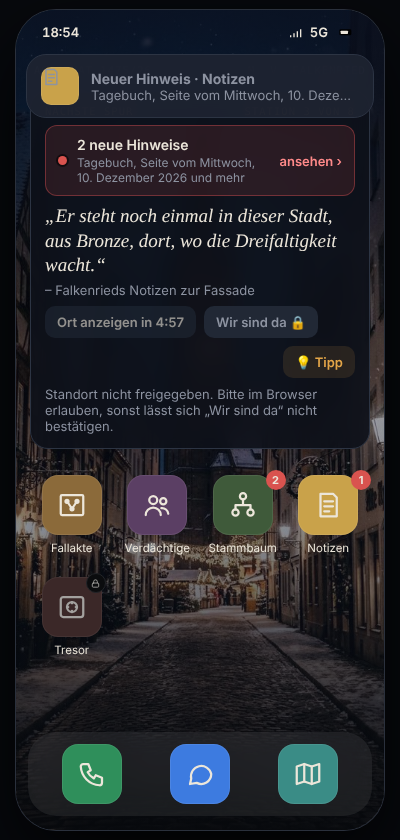
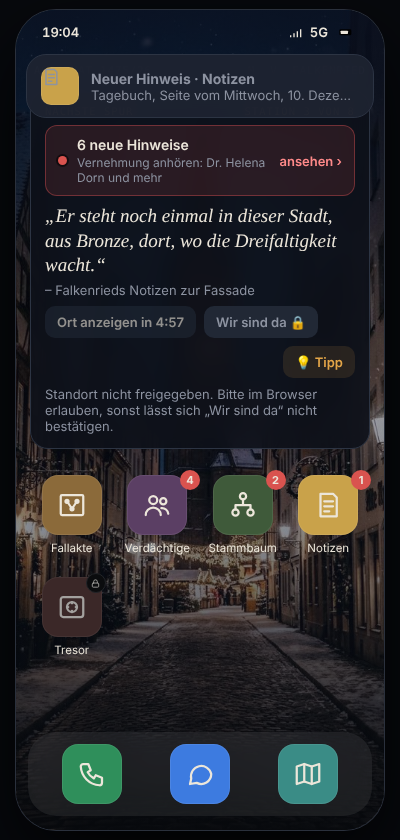
Start: die vier Vernehmungen müssen einmal komplett angehört werden (teamweit), mit Fortschritt und Sperre bis dahin
Claude-Session: https://claude.ai/code/session_01WNJHfocEY1Zejxyfbb2F8F

Changed region(s): [[0.18, 0.1548, 0.66, 0.2167], [0.45, 0.5571, 0.51, 0.5881], [0.12, 0.031, 0.18, 0.0619]]

diff --git a/src/index.html b/src/index.html
@@ -523,9 +523,9 @@ const CONTENT = {
 const TEAM = ((new URLSearchParams(location.search).get("team") || "haupt").toLowerCase().replace(/[^a-z0-9-]/g, "").slice(0, 30)) || "haupt";
 const KEY = "falkenried-v2-" + TEAM;
 /* Gemeinsam für alle Handys des Teams */
-const SHARED = ["stage","phase","revealed","apps","evidence","voicemails","notes","st","ending","struck","hintsOpen","events","locks","devices","solvedBy","rev","resetAt","goAt","acks","mustSee","startedAt"];
+const SHARED = ["stage","phase","revealed","apps","evidence","voicemails","notes","st","ending","struck","hintsOpen","events","locks","devices","solvedBy","rev","resetAt","goAt","acks","mustSee","startedAt","heard"];
 const fresh = () => ({ stage:1, phase:"task", revealed:{}, apps:[], evidence:[], voicemails:[], notes:[], st:{}, ending:null, struck:[], hintsOpen:{},
-  events:[], locks:{}, devices:{}, solvedBy:null, rev:0, resetAt:0, goAt:{}, acks:{}, mustSee:[],
+  events:[], locks:{}, devices:{}, solvedBy:null, rev:0, resetAt:0, goAt:{}, acks:{}, mustSee:[], heard:{},
   /* nur auf diesem Handy */
   introSeen:false, unlocked:false, calls:[], threads:{ unbekannt:[] }, fired:[], unread:0, missed:0, seen:[] });
 /* Dieses Gerät */
@@ -644,7 +644,7 @@ function renderDots(){ const d = $("#dots"); if (d) d.innerHTML = [0,1,2,3].map(
 function checkPin(){
   if (pin === CONTENT.pin) {
     S.unlocked = true; if (!S.startedAt) S.startedAt = Date.now(); save(); pin = ""; renderHome();
-    askName(() => showCast(() => setTimeout(() => { fire("CALL_01"); processEvents(); }, 1200)));
+    askName(() => showCast(() => showInterrogations(() => setTimeout(() => { fire("CALL_01"); processEvents(); }, 1200))));
   } else {
     const d = $("#dots"); d.classList.remove("shake"); void d.offsetWidth; d.classList.add("shake");
     $("#pinhint").textContent = "Falscher Code. Schaut noch einmal in den Umschlag.";
@@ -810,9 +810,9 @@ function alibiCheck(){
 }
 /* Alibis melden jetzt die allgemeinen Hinweise (newsCheck) */
 function personCard(p, cls, attr){
-  const nw = CONTENT.suspects.includes(p) && (isNew("verdaechtige", p.id) || (alibiOf(p.id) && isNew("verdaechtige", "alibi:" + p.id)));
+  const nw = CONTENT.suspects.includes(p) && (isNew("verdaechtige", p.id) || (alibiOf(p.id) && isNew("verdaechtige", "alibi:" + p.id)) || (REC_MUST.includes(p.id) && !(S.heard || {})[p.id]));
   return `<button class="card ${cls||""}${nw ? " isnew" : ""}" ${attr||""}>
-    <span class="av">${p.photo ? `<img src="${p.photo.replace(".jpg","_av.jpg")}" alt="">` : esc(p.name[0])}</span><span class="n">${esc(p.name)}, ${p.age}${CONTENT.suspects.includes(p) && (isNew("verdaechtige", p.id) || (alibiOf(p.id) && isNew("verdaechtige", "alibi:" + p.id))) ? '<b class="neuR">NEU</b>' : ""}</span>
+    <span class="av">${p.photo ? `<img src="${p.photo.replace(".jpg","_av.jpg")}" alt="">` : esc(p.name[0])}</span><span class="n">${esc(p.name)}, ${p.age}${CONTENT.suspects.includes(p) && nw ? '<b class="neuR">NEU</b>' : ""}</span>
     <span class="r">${esc(p.role)}</span><span class="q">${esc(p.note)}${p.says?`<br><i>${esc(p.says)}</i>`:""}${alibiOf(p.id) ? `<br><span style="color:#6fbf8a">✓ Alibi: ${esc(alibiOf(p.id))}${(cls||"").includes("struck") ? "" : " Tippen zum Streichen."}</span>` : ""}</span></button>`;
 }
 function openSuspects(){
@@ -844,12 +844,12 @@ function showSuspect(p){
   document.querySelectorAll(`#winBody [data-sus="${p.id}"] .neuR`).forEach(x => x.remove()); document.querySelectorAll(`#winBody [data-sus="${p.id}"]`).forEach(x => x.classList.remove("isnew"));
   sheet(`${p.photo ? `<img class="portrait" src="${p.photo}" alt="${esc(p.name)}">` : ""}<div class="kind">${esc(p.role)}</div>
     <h2>${esc(p.name)}, ${p.age}</h2><p>${esc(p.note)}</p>
-    ${RECORDINGS[p.id] ? `<button class="btn primary" id="recPlay">▶ Vernehmung anhören</button>
+    ${RECORDINGS[p.id] ? `${REC_MUST.includes(p.id) ? `<p id="recState" style="margin:0 0 6px;font-size:13px">${(S.heard || {})[p.id] ? '<span style="color:#6fbf8a">✓ Vernehmung angehört</span>' : '<span style="color:#ff8a8a">Bitte einmal komplett anhören.</span>'}</p>` : ""}<button class="btn primary" id="recPlay">▶ Vernehmung anhören</button>
       <details style="margin:8px 0 4px"><summary style="cursor:pointer;color:var(--muted);font-size:13px">Mitschrift der Vernehmung</summary><div class="transcript" style="margin-top:8px">${esc(RECORDINGS[p.id].text)}</div></details>` : `<p><i>${esc(p.says)}</i></p>`}
     ${alibiOf(p.id) ? `<div class="hint" style="border-color:#6fbf8a"><p style="margin:0;color:#6fbf8a"><b>✓ Alibi um 20:48:</b> ${esc(alibiOf(p.id))}</p></div>` : ""}
     <button class="btn ${struck?"":"primary"}" id="strike">${struck?"Wieder als verdächtig führen":"Streichen: hat ein sicheres Alibi"}</button>
     <button class="btn" data-close>Schließen</button>`);
-  const rp = $("#recPlay"); if (rp) rp.onclick = () => toggleRec(p.id, rp);
+  const rp = $("#recPlay"); if (rp) rp.onclick = () => { window.onHeard = who => { const st = $("#recState"); if (st && who === p.id) st.innerHTML = '<span style="color:#6fbf8a">✓ Vernehmung angehört</span>'; document.querySelectorAll(`#winBody [data-sus="${p.id}"] .neuR`).forEach(x => x.remove()); document.querySelectorAll(`#winBody [data-sus="${p.id}"]`).forEach(x => x.classList.remove("isnew")); }; toggleRec(p.id, rp); };
   $("#strike").onclick = () => { S.struck = struck ? S.struck.filter(x=>x!==p.id) : S.struck.concat(p.id); save(); closeSheet(); openSuspects(); checkStrikes(); };
 }
 function openEvidence(){
@@ -1191,8 +1191,9 @@ function toggleRec(who, btn){
   const label = btn.textContent;
   if (curAudio && !curAudio.paused) { stopAudio(); btn.textContent = btn.dataset.l || label; return; }
   btn.dataset.l = btn.dataset.l || label; btn.textContent = "■ Stopp";
-  if (!playClip(R.id, R.text, { end: () => { btn.textContent = btn.dataset.l; }, fallback: () => speak(R.text.replace(/^\w+: /gm, ""), "andere") }))
-    speak(R.text.replace(/^\w+: /gm, ""), "andere");
+  const fin = () => { if (RECORDINGS[who]) { S.heard = S.heard || {}; if (!S.heard[who]) { S.heard[who] = true; save(); } } btn.textContent = btn.dataset.l; if (window.onHeard) onHeard(who); };
+  const sp = () => speak(R.text.replace(/^\w+: /gm, ""), "andere", { onend: fin });
+  if (!playClip(R.id, R.text, { end: fin, fallback: sp })) sp();
 }
 /* Platzhalter-Stimme über die Sprachausgabe des Geräts. Später durch eingesprochene bzw. KI-generierte MP3s ersetzen. */
 function speak(text, voice, cb){
@@ -2152,6 +2153,24 @@ function castRow(img, name, line, sub){
     : `<span style="width:46px;height:46px;border-radius:50%;flex:none;display:grid;place-items:center;background:var(--surface-2);font-family:var(--font-display);font-size:22px">${esc(name[0])}</span>`;
   return `<div style="display:flex;gap:12px;align-items:center;padding:8px 0;border-bottom:1px solid var(--line)">${av}<div><b style="font-size:15px">${esc(name)}</b><div style="font-size:13px;color:var(--muted);line-height:1.4">${esc(line)}${sub ? `<br><i>${esc(sub)}</i>` : ""}</div></div></div>`;
 }
+/* Zu Beginn: die vier Vernehmungen einmal komplett anhören (zählt fürs ganze Team) */
+const REC_MUST = ["helena","mair","tobias","clara"];
+const heardAll = () => REC_MUST.every(id => (S.heard || {})[id]);
+function showInterrogations(after){
+  if (heardAll()) { if (after) after(); return; }
+  const g = id => CONTENT.suspects.find(p => p.id === id);
+  const n = REC_MUST.filter(id => (S.heard || {})[id]).length;
+  sheet(`<div class="kind">Ermittlungsleiterin Seidl</div><h2>Hört euch die Vernehmungen an</h2>
+    <p>Seidl hat die vier Gäste noch in der Nacht befragt. Hört jede Vernehmung einmal komplett an, bevor ihr loslegt. Darin stecken Hinweise, die ihr später braucht.</p>
+    ${REC_MUST.map(id => { const p = g(id), ok = (S.heard || {})[id]; return `<div class="hint" style="display:flex;align-items:center;gap:12px;margin-bottom:8px${ok ? "" : ";box-shadow:inset 3px 0 0 var(--decline)"}">
+      <img src="img/${id}_av.jpg" alt="" style="width:44px;height:44px;border-radius:50%;object-fit:cover;flex:none"><div style="flex:1;min-width:0"><b>${esc(p.name)}</b><div style="font-size:12px">${ok ? '<span style="color:#6fbf8a">✓ angehört</span>' : '<span style="color:#ff8a8a">noch nicht angehört</span>'}</div></div>
+      <button class="btn${ok ? "" : " primary"}" data-rec="${id}" style="width:auto;margin:0;padding:8px 12px">${ok ? "▶ Nochmal" : "▶ Anhören"}</button></div>`; }).join("")}
+    <p style="text-align:center;font-weight:600">${n} von ${REC_MUST.length} angehört</p>
+    <button class="btn primary" id="recGo" ${heardAll() || DEV.noLimit ? "" : "disabled"}>${heardAll() ? "Weiter" : "Erst alle vier anhören"}</button>`);
+  document.querySelectorAll("#sheet [data-rec]").forEach(b => b.onclick = () => toggleRec(b.dataset.rec, b));
+  window.onHeard = () => { if ($("#recGo")) { const sh = $("#sheet"); if (sh) sh._user = true; closeSheet(); showInterrogations(after); } };
+  $("#recGo").onclick = () => { if (!heardAll() && !DEV.noLimit) return; window.onHeard = null; stopAudio(); const sh = $("#sheet"); if (sh) sh._user = true; closeSheet(); if (after) after(); };
+}
 function showCast(after){
   const g = id => CONTENT.suspects.find(p => p.id === id);
   sheet(`<div class="kind">Wer ist wer</div><h2>Die Personen in diesem Fall</h2>
@@ -2253,6 +2272,7 @@ function visibleSuspects(){ return CONTENT.suspects.filter(p => p.id !== "feld" 
 function openPostfach(){ newsSeen("nachrichten","postfach"); closeSheet(); if (S.stage === 7 && S.phase === "task" && !ackGate()) return; PUZZLE_7(); }
 function newsItems(app){
   if (app === "verdaechtige") { const out = [];
+    REC_MUST.forEach(id => { const p = CONTENT.suspects.find(x => x.id === id); out.push({ k:"rec:" + id, done:!!(S.heard || {})[id], t:"Vernehmung anhören: " + p.name, open:() => showSuspect(p) }); });
     visibleSuspects().forEach(p => { out.push({ k:p.id, t:"Neue Person: " + p.name, open:() => showSuspect(p) });
       if (alibiOf(p.id)) out.push({ k:"alibi:" + p.id, t:"Alibi für " + p.name + (S.struck.includes(p.id) ? "" : ", jetzt streichen"), open:() => showSuspect(p) }); });
     return out; }
@@ -2266,17 +2286,18 @@ function newsKeys(app){ return app === "fallakte" ? faItems().map(x => x.k) : ne
 function newsCount(app){
   if (app === "fallakte") return 0; /* Fallakte ist Nachschlagewerk: alles darin wurde schon an seiner Quelle gezeigt */
   if (app === "stammbaum") return treeSeen().length ? treeNew().length : 0;
-  let n = newsItems(app).filter(x => isNew(app, x.k)).length;
+  let n = newsItems(app).filter(x => unseenItem(app, x)).length;
   if (app === "telefon") n += S.missed || 0;
   return n;
 }
-function newsUnseen(app){ return newsKeys(app).filter(k => isNew(app, k)); }
+function unseenItem(app, x){ return x.done !== undefined ? !x.done : isNew(app, x.k); }
+function newsUnseen(app){ return newsItems(app).filter(x => unseenItem(app, x)).map(x => x.k); }
 function newsMark(app){ newsSeen(app, ...newsKeys(app)); }
 function appOpen(app){ const a = APPS[app]; return !(a.lock && !S.apps.includes(app)); }
 /* Alle ungesehenen Hinweise auf diesem Handy, in der Reihenfolge, in der man sie ansehen sollte */
 function allUnseen(){
   const out = [];
-  NEWS_APPS.filter(appOpen).forEach(app => newsItems(app).forEach(x => { if (isNew(app, x.k)) out.push(Object.assign({ app }, x)); }));
+  NEWS_APPS.filter(appOpen).forEach(app => newsItems(app).forEach(x => { if (unseenItem(app, x)) out.push(Object.assign({ app }, x)); }));
   if (treeSeen().length && treeNew().length) out.push({ app:"stammbaum", k:"tree", t:"Stammbaum: " + treeNew().map(id => TREE[id].n).join(", "), open:() => { closeSheet(); openTree(); } });
   return out;
 }
@@ -2291,7 +2312,7 @@ let newsPend = {}, newsLastN = -1;
 function newsCheck(){
   if (!S.unlocked) return;
   const a = newsAll();
-  if (!a._b) { NEWS_APPS.forEach(app => a[app] = Array.from(new Set((a[app] || []).concat(newsItems(app).map(x => x.k))))); a._b = 1; a._ann = []; newsSave(a); return; }
+  if (!a._b) { NEWS_APPS.forEach(app => a[app] = Array.from(new Set((a[app] || []).concat(newsItems(app).map(x => x.k))))); a._b = 1; a._ann = REC_MUST.map(id => "verdaechtige:rec:" + id); newsSave(a); return; }
   const un = allUnseen();
   if (un.length !== newsLastN) { newsLastN = un.length; if (!$("#win") && !$("#call")) renderHome(); }
   if ($("#call") || showQ.length || document.querySelector("#sheet[data-ack]")) return; /* direkt angezeigte Hinweise haben Vorrang */
@@ -2305,6 +2326,8 @@ function newsCheck(){
     () => { closeSheet(); newsSheet(ready); }, ready[0].app);
 }
 setInterval(newsCheck, 1500);
+/* Falls das Vernehmungsfenster anders geschlossen wurde: der erste Anruf kommt, sobald alle vier angehört sind */
+setInterval(() => { if (S.unlocked && S.stage === 1 && heardAll() && !(S.events || []).includes("CALL_01") && !$("#sheet") && !$("#call")) { fire("CALL_01"); processEvents(); } }, 3000);
 
 function openFallakte(){
   closeSheet();
